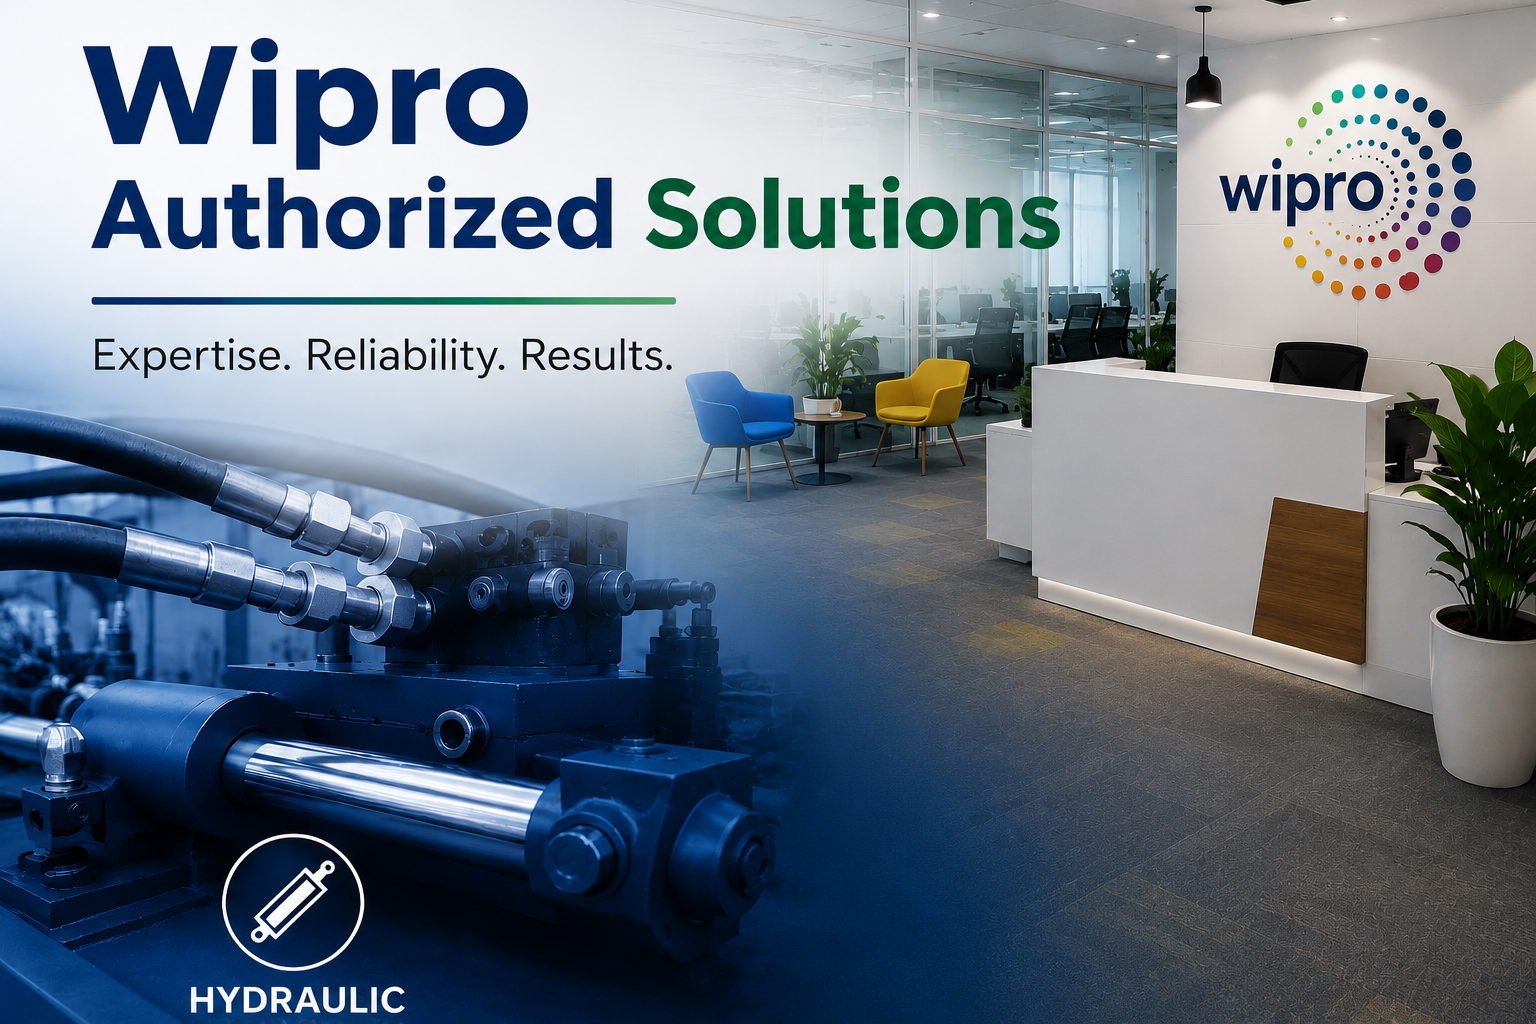
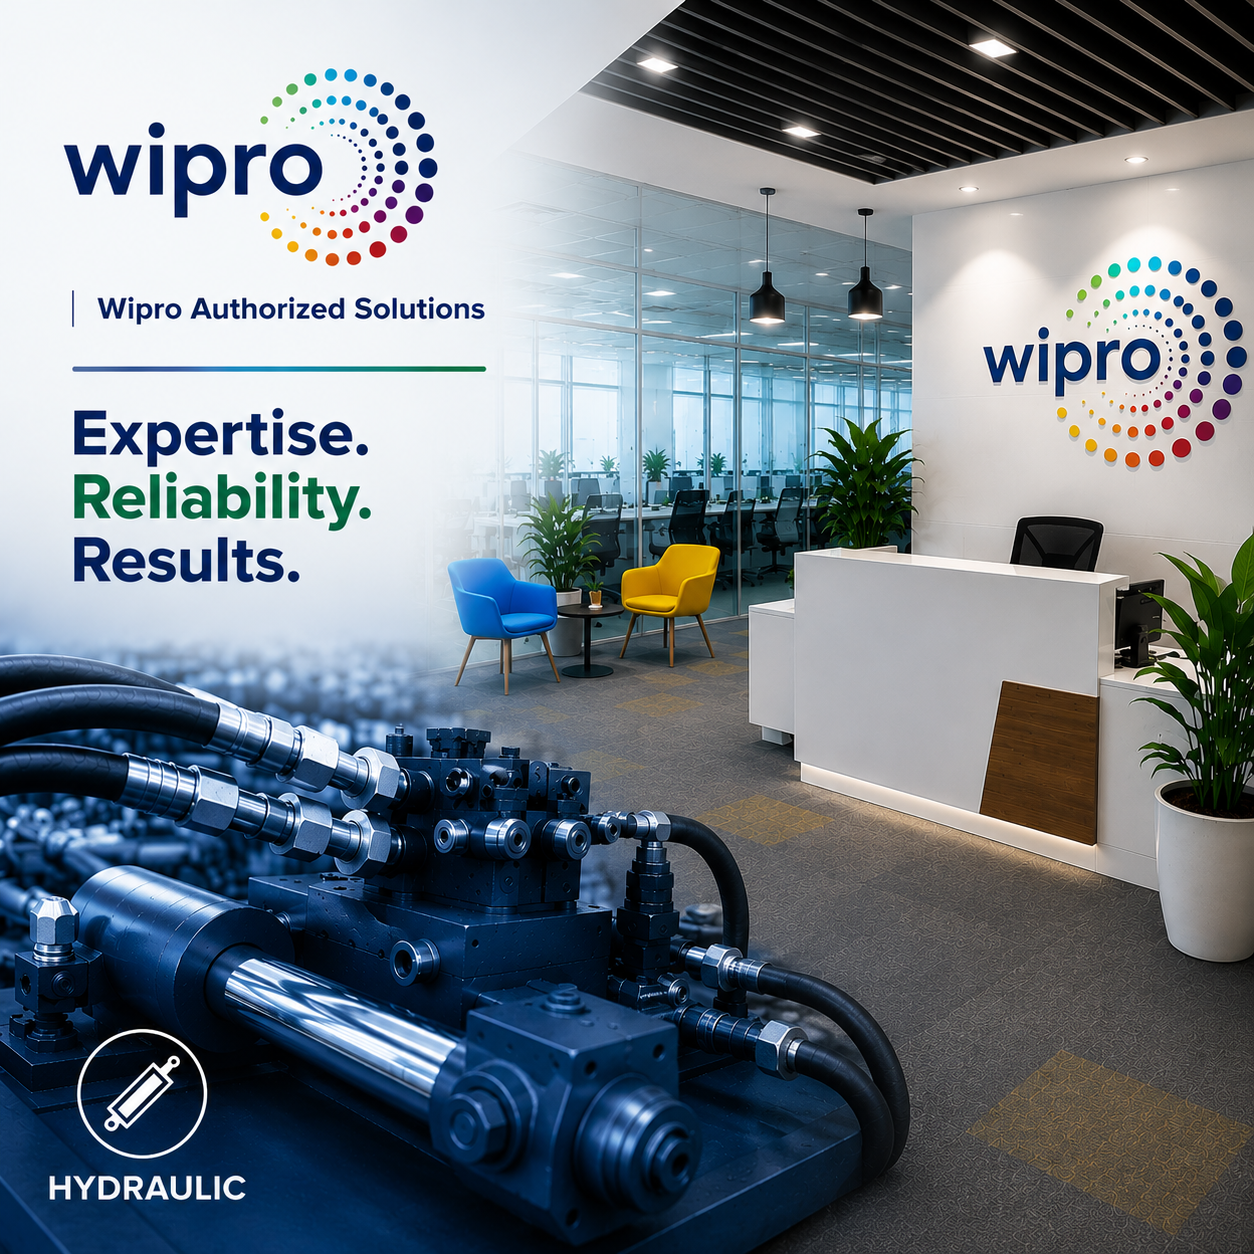
Added Wipro Image

diff --git a/src/pages/services/HydraulicsPage.jsx b/src/pages/services/HydraulicsPage.jsx
@@ -6,7 +6,7 @@ import hydraulicImage from "../../assets/images/services/hydraulics/hydraulic-sy
 import authorizedImage from "../../assets/images/services/hydraulics/authorized-solutions.webp"
 import suspensionImage from "../../assets/images/services/hydraulics/suspension.webp"
 
-import wiproAuthorizedImage from "../../assets/images/services/hydraulics/wiproAuthorized.png";
+import hydraulicHeroImage from "../../assets/images/services/hydraulics/hydraulic-system.webp"
 
 
 
@@ -69,7 +69,7 @@ function HydraulicsPage() {
       <BusinessHero
         title="Hydraulics & Axel"
         subtitle="Industrial hydraulic and suspension solutions for modern engineering operations."
-        image={wiproAuthorizedImage}
+        image={hydraulicHeroImage}
         highlights={[
           "Wipro Authorized Solutions",
           "Hendrickson Excellence",
